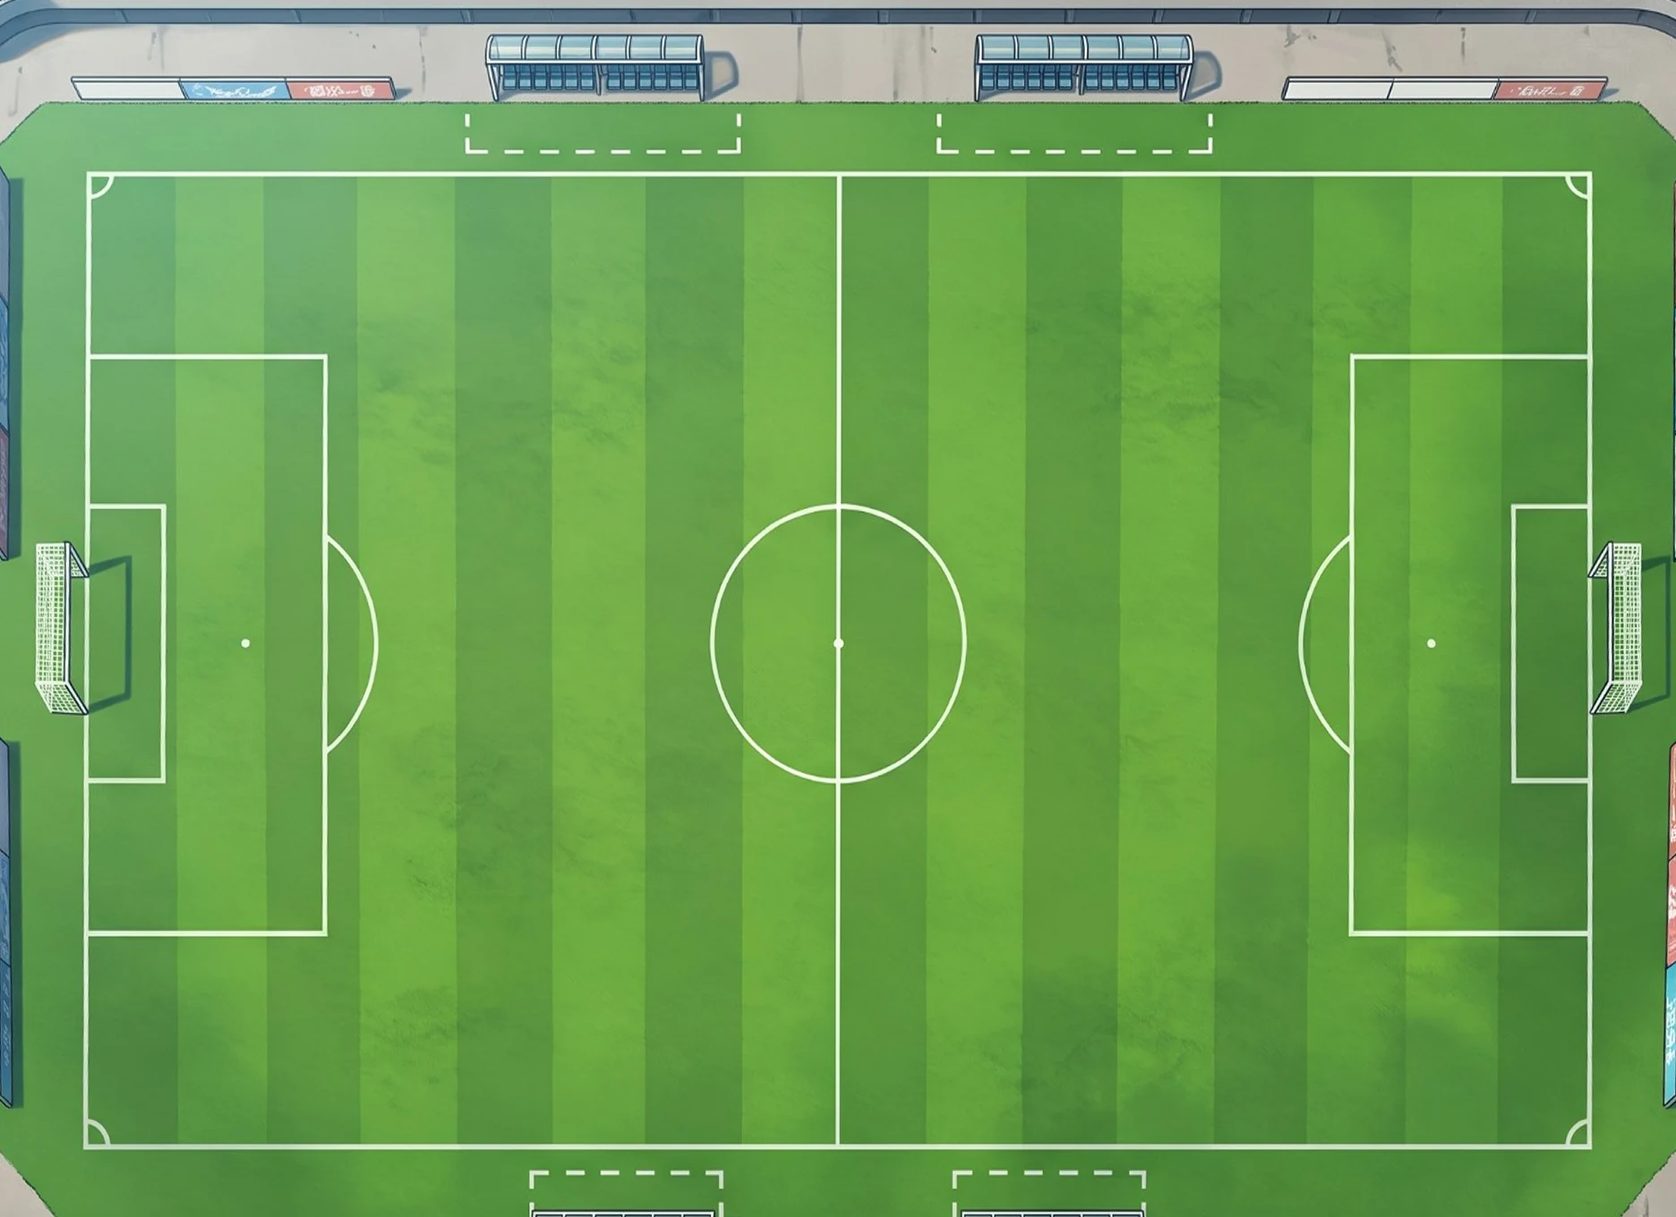
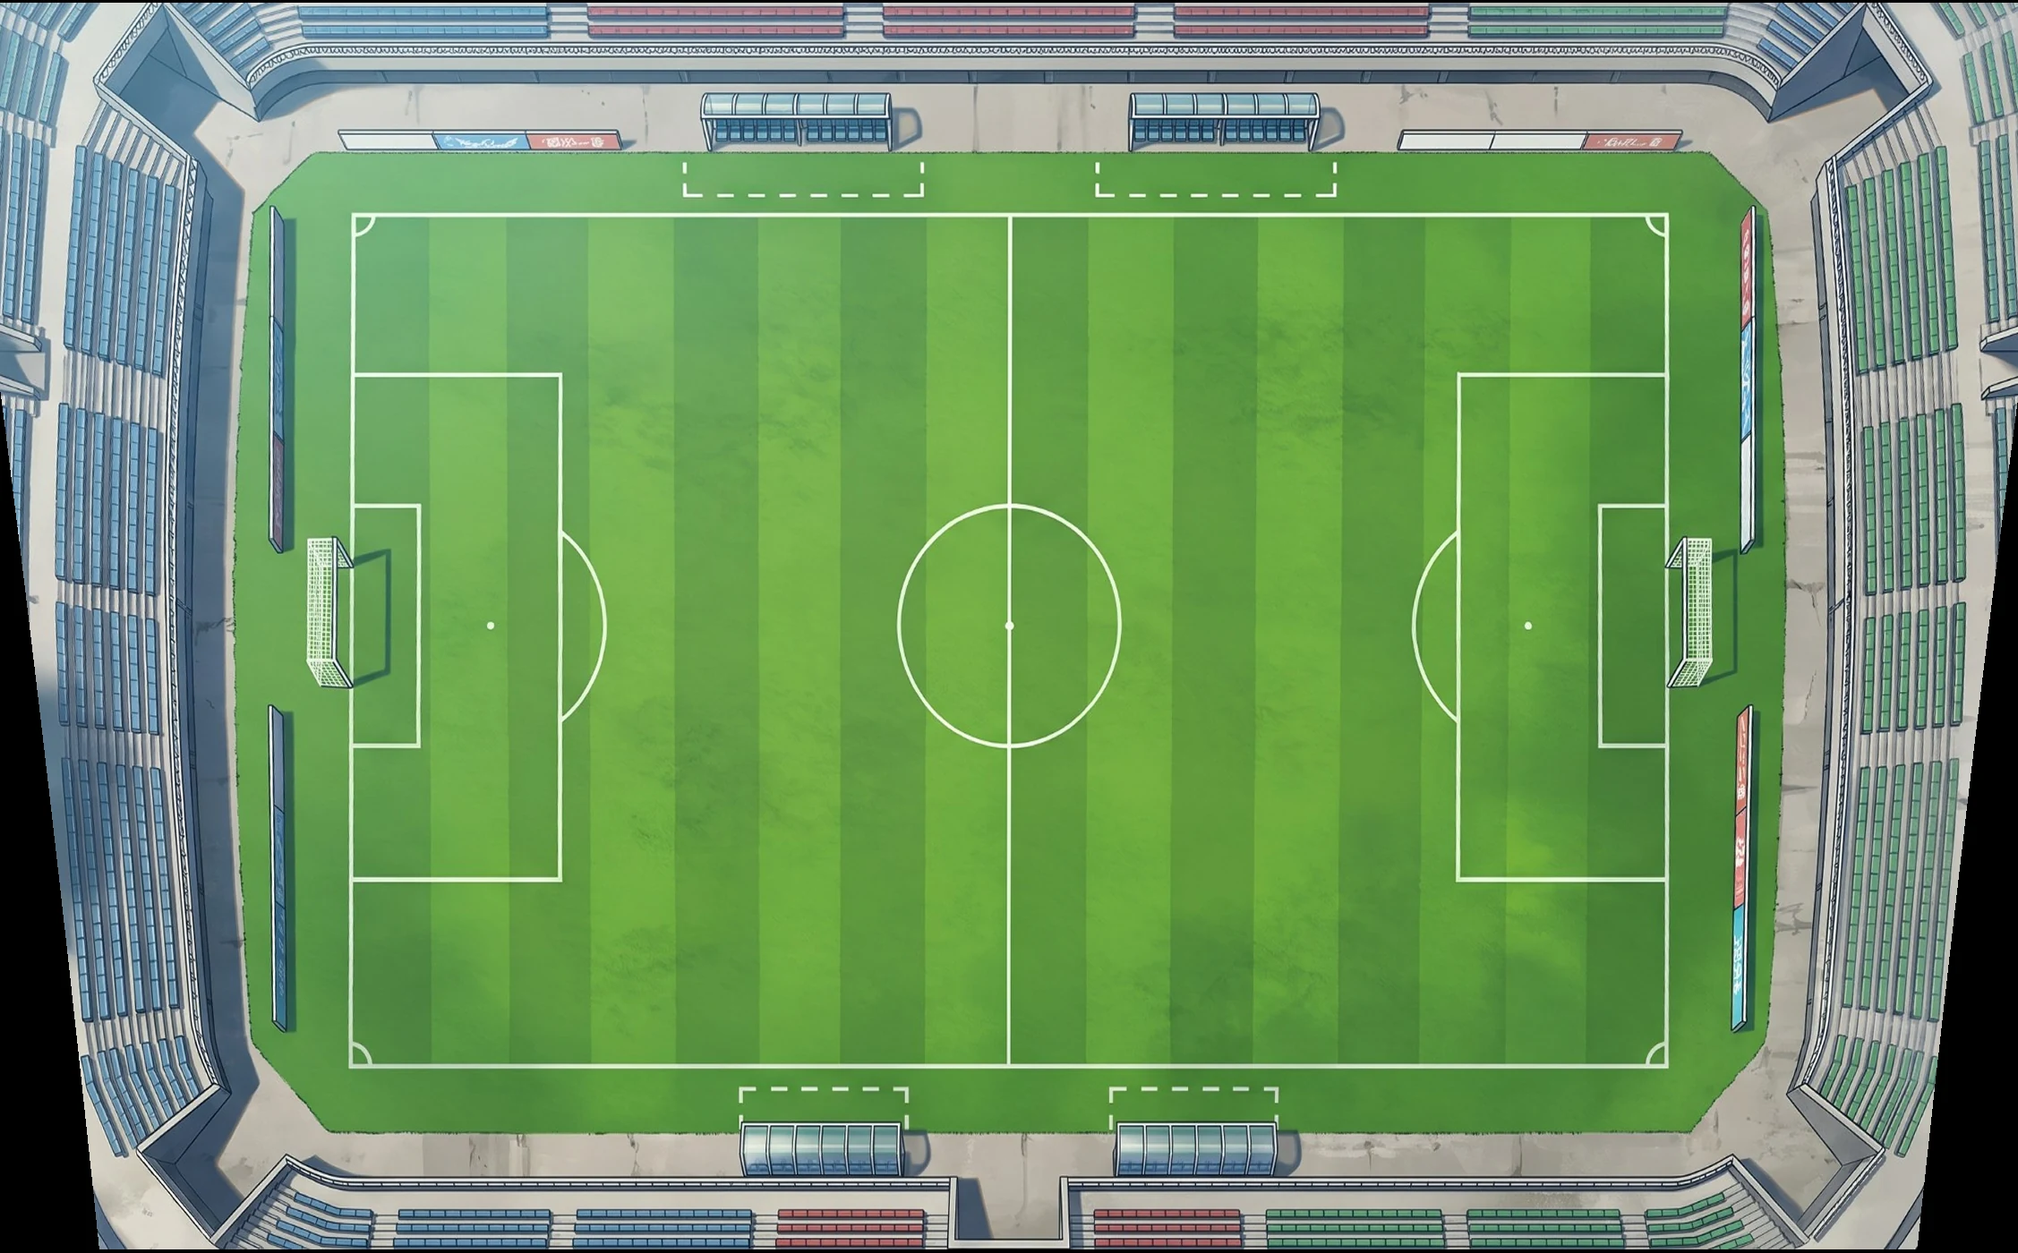
Estadio dibujado en el juego principal: CRT, horario y luz que cambia, público, vallas con lo que pasa, cámara libre hasta las gradas
Claude-Session: https://claude.ai/code/session_01WRVFSLSbn8JSFQhYwgTVQi

diff --git a/js/pitch.js b/js/pitch.js
@@ -104,10 +104,12 @@
 
   // Estadio dibujado (prueba): ?campo=arte lo activa, ?campo=no lo quita
   const ART = { on: false, img: null };
+  // Lo que cubre el estadio dibujado (campo, gradas y público): la cámara puede ir hasta ahí
+  const ART_VIEW = { x0: -28, x1: 133, y0: -17, y1: 83 };
   try {
     const q = new URLSearchParams(location.search).get('campo');
     if (q) localStorage.setItem('touchline.campo', q === 'arte' ? '1' : '0');
-    ART.on = localStorage.getItem('touchline.campo') === '1';
+    ART.on = localStorage.getItem('touchline.campo') !== '0';
   } catch (e) { /* sin almacenamiento */ }
 
   /** Tiempo del partido según la época del año (invierno: lluvia y nieve; verano: calor). Se puede forzar con ?tiempo=lluvia|nieve|calor|nublado|despejado. */
@@ -120,6 +122,13 @@
     let acc = 0; for (const [k, v] of w) { acc += v / tot; if (r < acc) return k; }
     return 'despejado';
   }
+
+  // Anuncios de las vallas (marcas inventadas, con guasa)
+  const ADS = ['CERVEZAS EL PALO · LA QUE ENTRA SIN VAR', 'SEGUROS FUERA DE JUEGO · TE CUBRIMOS HASTA EL MINUTO 90+7', 'BOCADILLOS EL DESCANSO · 15 MINUTOS DE FELICIDAD',
+    'GAFAS PARA ÁRBITROS · ÓPTICA PITAZO', 'APP DE APUESTAS NO · MEJOR VEN AL CAMPO CON TU GENTE', 'PIPAS LA GRADA · LAS DE TODA LA VIDA',
+    'GIMNASIO REMONTADA · ABIERTO HASTA EL 90', 'PELUQUERÍA EL CRACK · CORTES DE CRACK, PRECIO DE CANTERA', 'TAXI CONTRAGOLPE · LLEGAMOS ANTES QUE EL LATERAL',
+    'AGENCIA DE VIAJES LA PRÓRROGA', 'CHURROS EL PALO LARGO', 'BANCO LA CANTERA · INVERTIMOS EN TU FUTURO', 'ROPA TÉRMICA EL BANQUILLO · PARA LOS QUE ESPERAN SU OPORTUNIDAD',
+    'ACADEMIA DE IDIOMAS · APRENDE A PROTESTAR AL ÁRBITRO EN 5 LENGUAS', 'MUDANZAS EL MERCADO DE INVIERNO', 'PIZZAS TIKI-TAKA · REPARTO AL PRIMER TOQUE'];
 
   function actor(kind, x, y, extra) {
     return Object.assign({ kind, x, y, vx: 0, vy: 0, tx: x, ty: y, run: 0.5, state: null, until: 0, bob: Math.random() * 6 }, extra || {});
@@ -171,7 +180,7 @@
       this.brain.ownTeam = 0; this.brain.lastTouch = 0;
       this.stepT = 0;
       this.handled = [];
-      if (this.st.name) this._banner(this.st.name + (this.st.night ? ' · partido nocturno' : ''), '#ffffff', 2.6);
+      if (this.st.name) this._banner(this.st.name + ' · ' + this.st.hour, '#ffffff', 2.6);
       for (const i of [0, 1]) {
         const club = this.S.clubs[match.teams[i].club];
         // Sin equipación conocida: el color dominante del escudo
@@ -185,9 +194,21 @@
       };
       this.cv.addEventListener('pointermove', gest);
       this.cv.addEventListener('pointerdown', gest);
+      // Arrastrar: la cámara se mueve libre (para ver la grada); con la rueda o pellizco, zoom
+      this.cv.addEventListener('pointerdown', e => { this._drag = { x: e.clientX, y: e.clientY, moved: false }; if (this.pan) this.pan.down = true; });
+      this.cv.addEventListener('pointermove', e => {
+        const d = this._drag; if (!d || this.cv.closest('.mini') || e.buttons === 0 && e.pointerType === 'mouse') return;
+        const dx = e.clientX - d.x, dy = e.clientY - d.y;
+        if (!d.moved && Math.hypot(dx, dy) < 6) return;
+        d.moved = true; d.x = e.clientX; d.y = e.clientY;
+        const s = this.sc * this.cam.z, P = this.pan || (this.pan = { x: 0, y: 0, at: 0 });
+        P.x = clamp(P.x - dx / s, -60, 60); P.y = clamp(P.y - dy / s, -40, 40); P.at = this.t; P.down = true;
+      });
+      const up = () => { this._drag = null; if (this.pan) { this.pan.down = false; this.pan.at = this.t; } };
+      this.cv.addEventListener('pointerup', up); this.cv.addEventListener('pointercancel', up);
       this.cv.addEventListener('pointerleave', () => { if (this.tilt) this.tilt.tx = this.tilt.ty = 0; });
       this.cv.addEventListener('pointerup', e => { if (e.pointerType === 'touch' && this.tilt) this.tilt.tx = this.tilt.ty = 0; });
-      this.cv.style.touchAction = 'pan-y';
+      this.cv.style.touchAction = 'none';
       this.cv.addEventListener('wheel', e => {
         if (this.cv.closest('.mini')) return;
         e.preventDefault();
@@ -212,7 +233,7 @@
 
     /** Zoom de la cámara (1 = campo entero; más, sigue el balón). */
     setZoom(z) {
-      this.zoom = clamp(z, 1, 3);
+      this.zoom = clamp(z, ART.on ? 0.7 : 1, 3);
       if (this.onZoom) this.onZoom(this.zoom);
     }
 
@@ -299,7 +320,8 @@
         code: (home.code || home.name.slice(0, 3)).toUpperCase(), name: home.stadium || '',
         night: (this.S.week * 7 + home.id) % 3 === 0,
         time: (this.S.week * 7 + home.id) % 3 === 0 ? 'noche' : (this.S.week * 5 + home.id) % 3 === 0 ? 'tarde' : 'dia',
-        weather: 'despejado'
+        weather: 'despejado',
+        hour: (this.S.week * 7 + home.id) % 3 === 0 ? ['20:00', '21:00', '21:15'][h % 3] : (this.S.week * 5 + home.id) % 3 === 0 ? ['17:30', '18:30', '19:00'][h % 3] : ['12:00', '14:00', '16:15'][h % 3]
       };
     }
 
@@ -1867,6 +1889,12 @@
         c.fy = c.fy == null ? ly : lerp(c.fy, ly, Math.min(1, real * 1.2));
         tx = c.fx; ty = c.fy; tz = Math.max(tz, zoom);
       }
+      if (c.tx == null && zoom < 0.98) tz = zoom;   // campo y gradas enteras
+      if (this.pan && c.tx == null) {
+        if (this.t - this.pan.at > 5 && !this.pan.down) { this.pan.x *= 1 - Math.min(1, real * 1.5); this.pan.y *= 1 - Math.min(1, real * 1.5); }
+        tx += this.pan.x; ty += this.pan.y;
+        if (zoom < 1.05) tz = Math.min(tz, zoom);
+      }
       const k = Math.min(1, real * 3.2);
       c.z += (tz - c.z) * k; c.x += (tx - c.x) * k; c.y += (ty - c.y) * k;
       if (c.tx != null && this.ball) { c.tx = lerp(c.tx, this.ball.x, Math.min(1, real * 1.5)); c.ty = lerp(c.ty, this.ball.y, Math.min(1, real * 1.5)); }
@@ -1882,14 +1910,19 @@
       // Mantener la cámara dentro del estadio
       const halfW = this.w / 2 / s, halfH = this.h / 2 / s;
       const fit = (v, a, b, half) => (b - a <= half * 2 ? (a + b) / 2 : clamp(v, a + half, b - half));
-      const cxw = fit(cam.x, VIEW.x0, VIEW.x1, halfW), cyw = fit(cam.y, VIEW.y0, VIEW.y1, halfH);
+      const V = ART.on && this._art !== false && TL.StadiumGL && TL.StadiumGL.ready() ? ART_VIEW : VIEW;
+      const cxw = fit(cam.x, V.x0, V.x1, halfW), cyw = fit(cam.y, V.y0, V.y1, halfH);
       const X = x => this.w / 2 + (x - cxw) * s;
       const Y = y => this.h / 2 + (y - cyw) * s;
       this.X = X; this.Y = Y; this.s = s;
       // Grada y pista
       const night = this.st.night;
       const art = this._artCv();
-      if (art) { c.fillStyle = '#20242a'; c.fillRect(0, 0, this.w, this.h); c.drawImage(art, X(VIEW.x0), Y(VIEW.y0), (VIEW.x1 - VIEW.x0) * s, (VIEW.y1 - VIEW.y0) * s); }
+      if (art) {
+        c.fillStyle = '#20242a'; c.fillRect(0, 0, this.w, this.h); c.drawImage(art, X(ART_VIEW.x0), Y(ART_VIEW.y0), (ART_VIEW.x1 - ART_VIEW.x0) * s, (ART_VIEW.y1 - ART_VIEW.y0) * s);
+        this._fans(X, Y, s);
+        this._boards(X, Y, s);
+      }
       else {
       c.fillStyle = night ? '#060b12' : '#0b1f14'; c.fillRect(0, 0, this.w, this.h);
       // Gradas con los colores del club local y tifo con sus siglas
@@ -2084,7 +2117,9 @@
       if (!ART.on || !TL.StadiumGL) return null;
       const g = this.tilt || (this.tilt = { x: 0, y: 0, tx: 0, ty: 0 });
       g.x += (g.tx - g.x) * 0.08; g.y += (g.ty - g.y) * 0.08;
-      return TL.StadiumGL.render({ VIEW, L, Wd, t: this.t, tilt: g, time: this.st.time, weather: this.st.weather });
+      const min = this.m.min || 0;
+      const dark = this.st.time === 'noche' ? 1 : this.st.time === 'tarde' ? clamp((min - 50) / 40, 0, 0.8) : 0;
+      return TL.StadiumGL.render({ VIEW, L, Wd, t: this.t, tilt: g, time: this.st.time, dark, weather: this.st.weather });
     }
 
     _drawLoading() {
@@ -2094,6 +2129,73 @@
       c.fillStyle = 'rgb(255 255 255 / 0.75)'; c.font = '600 14px Barlow, sans-serif'; c.textAlign = 'center'; c.textBaseline = 'middle';
       const dots = '.'.repeat(1 + (Math.floor(performance.now() / 400) % 3));
       c.fillText((TL.t ? TL.t('Preparando el estadio') : 'Preparando el estadio') + dots, this.w / 2, this.h / 2);
+    }
+
+    /** Público en las gradas del estadio dibujado: colores del local (y un fondo visitante); salta con los goles. */
+    _fans(X, Y, s) {
+      if (!this._fanPts) {
+        const im = TL.StadiumGL.image && TL.StadiumGL.image('mask');
+        if (!im) return;
+        const cv = document.createElement('canvas'); cv.width = 322; cv.height = 200;
+        const g = cv.getContext('2d'); g.drawImage(im, 0, 0, cv.width, cv.height);
+        const d = g.getImageData(0, 0, cv.width, cv.height).data;
+        const pts = [], fill = Math.min(1, 0.45 + (this.m.att || 0.6) * 0.5);
+        for (let k = 0; k < 20000 && pts.length < 2600; k++) {
+          const px = Math.floor(Math.random() * cv.width), py = Math.floor(Math.random() * cv.height), o = (py * cv.width + px) * 4;
+          if (d[o] < 150 || d[o + 1] > 120) continue;   // solo gradas (rojo en la máscara)
+          if (Math.random() > fill) continue;
+          const x = ART_VIEW.x0 + (px + Math.random()) / cv.width * (ART_VIEW.x1 - ART_VIEW.x0), y = ART_VIEW.y0 + (py + Math.random()) / cv.height * (ART_VIEW.y1 - ART_VIEW.y0);
+          const away = x > L * 0.86 && y > Wd / 2;
+          const r = Math.random();
+          pts.push({ x, y, ph: Math.random() * 6, c: away ? (r < 0.7 ? this.colors[1].main : '#d8d8d8') : r < 0.5 ? this.st.seat : r < 0.68 ? this.st.seat2 : ['#c9d3cf', '#9aa8a2', '#e6e0d0'][k % 3] });
+        }
+        this._fanPts = pts;
+      }
+      const c = this.cx, z = Math.max(1, 0.42 * s);
+      const party = this.sparkUntil && this.sparkUntil > this.t;
+      for (const f of this._fanPts) {
+        const j = party ? Math.abs(Math.sin(this.t * 9 + f.ph)) * 0.35 : Math.sin(this.t * 1.5 + f.ph) * 0.04;
+        c.fillStyle = f.c; c.fillRect(X(f.x), Y(f.y - j), z, z);
+      }
+    }
+
+    /** Vallas LED junto a las bandas: lo que pasa en el partido, la figura de la temporada y anuncios. */
+    _boards(X, Y, s) {
+      const c = this.cx;
+      const B = this._board || (this._board = { msg: null, until: 0, k: 0 });
+      if (!B.msg || this.t > B.until) {
+        const q = this.boardQ && this.boardQ.shift();
+        B.msg = q || this._adText(); B.until = this.t + (q ? 7 : 9); B.born = this.t; B.hot = !!q;
+      }
+      const txt = TL.t ? TL.t(B.msg) : B.msg;
+      for (const [y0, flip] of [[-2.4, false], [Wd + 1.1, false]]) {
+        const x0 = 4, w = L - 8, hgt = 1.3;
+        c.fillStyle = '#0a0d12'; c.fillRect(X(x0), Y(y0), w * s, hgt * s);
+        c.save(); c.beginPath(); c.rect(X(x0), Y(y0), w * s, hgt * s); c.clip();
+        c.font = `800 ${Math.max(8, 1.05 * s)}px Barlow Condensed, sans-serif`; c.textBaseline = 'middle'; c.textAlign = 'left';
+        const tw = c.measureText(txt).width + 40 * s / 10;
+        const off = ((this.t - B.born) * 6 * s) % (tw);
+        c.fillStyle = B.hot ? (Math.floor(this.t * 4) % 2 ? '#ffd23f' : '#ffffff') : '#b8f53d';
+        for (let xx = X(x0) - off; xx < X(x0) + w * s; xx += tw) c.fillText(txt, xx, Y(y0 + hgt / 2));
+        c.restore();
+      }
+    }
+    _adText() {
+      const S = this.S, ids = this.m.teams.flatMap(t => t.onPitch.map(o => o.pid));
+      // La figura de la temporada (si va lanzada)
+      let star = null;
+      for (const id of ids) { const st = S.stats && S.stats[id]; if (st && st[1] >= 4 && (!star || st[1] > S.stats[star][1])) star = id; }
+      this._bk = (this._bk || 0) + 1;
+      if (star && this._bk % 3 === 0) { const p = this.P(star); return `${p.short.toUpperCase()} · ${S.stats[star][1]} GOLES ESTA TEMPORADA · ¡IMPARABLE!`; }
+      return U.pick(ADS);
+    }
+    /** Lo que pasa en el partido sale en las vallas. */
+    boardMsg(e) {
+      const q = this.boardQ || (this.boardQ = []);
+      const name = e.pid != null && this.P(e.pid) ? this.P(e.pid).short.toUpperCase() : '';
+      const club = e.team >= 0 ? (this.S.clubs[this.m.teams[e.team].club].name || '').toUpperCase() : '';
+      const t = { goal: `¡GOOOL DE ${name}!  ${this.m.score[0]}-${this.m.score[1]}`, red: `ROJA PARA ${name}`, pen: `¡PENALTI PARA ${club}!`, save: `¡PARADÓN!`, sub: 'CAMBIO', var: 'REVISIÓN VAR', ht: `DESCANSO · ${this.m.score[0]}-${this.m.score[1]}`, late: `¡ÚLTIMOS MINUTOS! · ¡VAMOS ${club}!` }[e.type];
+      if (t) { q.length = 0; q.push(t); if (this._board) this._board.until = 0; }
     }
 
     /** Lluvia, nieve o calor (ondas y destellos del sol en la lente), sobre todo lo demás. */

diff --git a/js/stadiumgl.js b/js/stadiumgl.js
@@ -77,14 +77,14 @@ void main(){
   for (int i=1;i<=12;i++){ float hh = texture2D(tH, q - st*float(i)).r; sh = max(sh, clamp((hh - h - float(i)*0.02)*4., 0., 1.)); }
   float lit = 1. + rel*0.9 - sh*0.38;
   vec3 c = col * lit * tint * mix(1., 0.5, night);
-  if (night > 0.5) {
+  if (night > 0.01) {
     vec2 a = vec2(uv.x, uv.y/aspect);
     float f = 0.;
     f += 0.5/(1.+18.*dot(a, a));
     f += 0.5/(1.+18.*dot(a-vec2(1.,0.), a-vec2(1.,0.)));
     f += 0.5/(1.+18.*dot(a-vec2(0.,1./aspect), a-vec2(0.,1./aspect)));
     f += 0.5/(1.+18.*dot(a-vec2(1.,1./aspect), a-vec2(1.,1./aspect)));
-    c += col * f * vec3(1.,.97,.88) * (0.6 + 0.4*n.z) * (1. - sh*0.5);
+    c += col * f * night * vec3(1.,.97,.88) * (0.6 + 0.4*n.z) * (1. - sh*0.5);
   }
   gl_FragColor = vec4(c, 1.);
 }`;
@@ -107,7 +107,7 @@ void main(){
   function setupGL(W) {
     const cv = document.createElement('canvas');
     // Se pinta a resolución moderada (es fondo) para ir fluido en móvil
-    cv.width = Math.round(W.color.naturalWidth * 0.85); cv.height = Math.round(W.color.naturalHeight * 0.85);
+    cv.width = Math.round(W.color.naturalWidth * 0.8); cv.height = Math.round(W.color.naturalHeight * 0.8);
     const gl = cv.getContext('webgl', { premultipliedAlpha: false, preserveDrawingBuffer: true });
     if (!gl) return null;
     const sh = (type, src) => { const s = gl.createShader(type); gl.shaderSource(s, src); gl.compileShader(s); if (!gl.getShaderParameter(s, gl.COMPILE_STATUS)) throw new Error(gl.getShaderInfoLog(s)); return s; };
@@ -153,7 +153,7 @@ void main(){
     gl.uniform2f(u.tilt, o.tilt.x, o.tilt.y);
     gl.uniform3f(u.sun, Math.cos(a) * 0.55 - o.tilt.x * 0.35, Math.sin(a) * 0.45 - o.tilt.y * 0.35, dusk ? 0.32 : 0.8);
     gl.uniform1f(u.t, o.t);
-    gl.uniform1f(u.night, night ? 1 : 0);
+    gl.uniform1f(u.night, o.dark != null ? o.dark : night ? 1 : 0);
     const w = o.weather || 'despejado';
     gl.uniform1f(u.wet, w === 'lluvia' || w === 'temporal' ? 1 : 0);
     gl.uniform1f(u.snow, w === 'nieve' ? Math.min(1, 0.06 + o.t / 1200) : 0);
@@ -169,5 +169,5 @@ void main(){
     const q = new URLSearchParams(location.search).get('campo');
     if (q === 'arte' || (!q && localStorage.getItem('touchline.campo') === '1')) setTimeout(load, 1500);
   } catch (e) { /* nada */ }
-  TL.StadiumGL = { render, load, ready: () => S.state === 'loaded' || S.state === 'error' };
+  TL.StadiumGL = { image: k => (S.state === 'loaded' ? S.imgs[{ mask: 'mask' }[k] || k] : null), render, load, ready: () => S.state === 'loaded' || S.state === 'error' };
 })();

diff --git a/js/matchview.js b/js/matchview.js
@@ -19,6 +19,7 @@
   const PAUSE_LABEL = { goal: 'Goles', red: 'Expulsiones', inj: 'Lesiones (tuyas)', pen: 'Penaltis', var: 'VAR y polémicas', crowd: 'Incidentes en la grada', ht: 'Descanso (charla)' };
 
   function el(id) { return document.getElementById(id); }
+  function crtOn() { try { return localStorage.getItem('touchline.crt') !== '0'; } catch (e) { return true; } }
   function settings() { return G.S.settings; }
 
   function open() {
@@ -67,7 +68,8 @@
     MV.pitch.zoom = settings().zoom || 1;
     MV.pitch.onZoom = z => { settings().zoom = z; camLabel(); };
     setTimeout(camLabel, 0);
-    root.classList.toggle('crt', !!settings().crt);
+    root.classList.toggle('crt', crtOn());
+    const hr = MV.pitch.st && MV.pitch.st.hour; if (hr) { const c = root.querySelector('.mh .comp'); if (c) c.insertAdjacentText('beforeend', ' · ' + hr); }
     clearInterval(MV.ballTimer);
     MV.ballTimer = setInterval(markBall, 120);
     MV.pitch.speed = settings().speed || 1;
@@ -179,6 +181,7 @@
   function revealEv(e) {
     if (!MV.m) return;
     addEvent(e);
+    if (MV.pitch && MV.pitch.boardMsg) MV.pitch.boardMsg(e);
     if (e.type === 'goal') { TL.FX.pop(el('mv-score')); crowdSongs([e]); }
     updateHead();
     if (MV.tab !== 'feed') renderTab();
@@ -634,7 +637,7 @@
     const nx = CAMS[k < 0 ? 0 : k];
     MV.pitch.setZoom(nx[0]); UI.toast(nx[1]);
   };
-  A['mv-crt'] = () => { if (MV.pipDragged) return; settings().crt = !settings().crt; el('match').classList.toggle('crt', settings().crt); G.save(); };
+  A['mv-crt'] = () => { if (MV.pipDragged) return; const on = !crtOn(); try { localStorage.setItem('touchline.crt', on ? '1' : '0'); } catch (e) { /* nada */ } el('match').classList.toggle('crt', on); };
   A['mv-mini'] = () => { if (MV.pipDragged) return; const on = !el('match').classList.contains('mini'); settings().mini = on; setMini(on); };
   A['mv-pip-size'] = () => {
     if (MV.pipDragged) return;

diff --git a/js/ui.js b/js/ui.js
@@ -321,6 +321,8 @@
     renderTitle();
   };
   A['opt-music'] = () => { Music.toggle(); UI.refresh(); };
+  A['opt-crt'] = () => { try { localStorage.setItem('touchline.crt', localStorage.getItem('touchline.crt') !== '0' ? '0' : '1'); } catch (e) { /* nada */ } UI.refresh(); };
+  A['opt-campo'] = () => { try { localStorage.setItem('touchline.campo', localStorage.getItem('touchline.campo') !== '0' ? '0' : '1'); } catch (e) { /* nada */ } UI.toast('Se aplicará al recargar la página'); UI.refresh(); };
   A['opt-sfx'] = () => { TL.SFX.setOn(!TL.SFX.on()); TL.SFX.toggle(TL.SFX.on()); UI.refresh(); };
   A['opt-mentor'] = () => { TL.Mentor.setOn(!TL.Mentor.on()); UI.refresh(); };
   UI.Music = Music;
@@ -1677,6 +1679,8 @@
         <div class="title-toggles" style="justify-content:flex-start;margin-top:10px">
           <button data-act="opt-music">🎵 Música: <b>${Music.on() ? 'Sí' : 'No'}</b></button>
           <button data-act="opt-sfx">🔊 Sonido: <b>${TL.SFX.on() ? 'Sí' : 'No'}</b></button>
+          <button data-act="opt-crt">📺 Filtro CRT: <b>${localStorage.getItem('touchline.crt') !== '0' ? 'Sí' : 'No'}</b></button>
+          <button data-act="opt-campo">🏟 Estadio dibujado: <b>${localStorage.getItem('touchline.campo') !== '0' ? 'Sí' : 'No'}</b></button>
           <button data-act="opt-mentor">${profeIc()} Consejos del Profe: <b>${TL.Mentor.on() ? 'Sí' : 'No'}</b></button></div>
         <div class="mt">${TL.I18N.picker()}</div>
         <p class="note mt">La partida se guarda automáticamente en este navegador tras cada jornada. Datos de jugadores: ${esc(S.source)}.</p></section>

diff --git a/data/i18n/radio.js b/data/i18n/radio.js
@@ -142,5 +142,9 @@ TL_I18N_ADD([
   ['Se marcha por la línea de fondo: saque de puerta.', 'It goes out over the byline: goal kick.', 'Le ballon sort en six mètres.', 'Der Ball geht ins Toraus: Abstoß.', 'Esce sul fondo: rimessa dal fondo.'],
   ['Córner para {t}.', 'Corner to {t}.', 'Corner pour {t}.', 'Ecke für {t}.', 'Calcio d’angolo per {t}.'],
   ['La toca un defensa y se va a córner: saque de esquina para {t}.', 'Deflected off a defender and out for a corner to {t}.', 'Déviée par un défenseur : corner pour {t}.', 'Von einem Verteidiger abgefälscht: Ecke für {t}.', 'Deviata da un difensore: calcio d’angolo per {t}.'],
+  ['📺 Filtro CRT: <b>Sí</b>', '📺 CRT filter: <b>Yes</b>', '📺 Filtre CRT : <b>Oui</b>', '📺 CRT-Filter: <b>Ja</b>', '📺 Filtro CRT: <b>Sì</b>'],
+  ['Filtro CRT:', 'CRT filter:', 'Filtre CRT :', 'CRT-Filter:', 'Filtro CRT:'],
+  ['Estadio dibujado:', 'Illustrated stadium:', 'Stade illustré :', 'Gezeichnetes Stadion:', 'Stadio disegnato:'],
+  ['Se aplicará al recargar la página', 'Applies after reloading the page', 'S’appliquera au rechargement de la page', 'Gilt nach dem Neuladen der Seite', 'Si applicherà ricaricando la pagina'],
   ['Preparando el estadio', 'Getting the stadium ready', 'Préparation du stade', 'Das Stadion wird vorbereitet', 'Preparazione dello stadio']
 ]);
